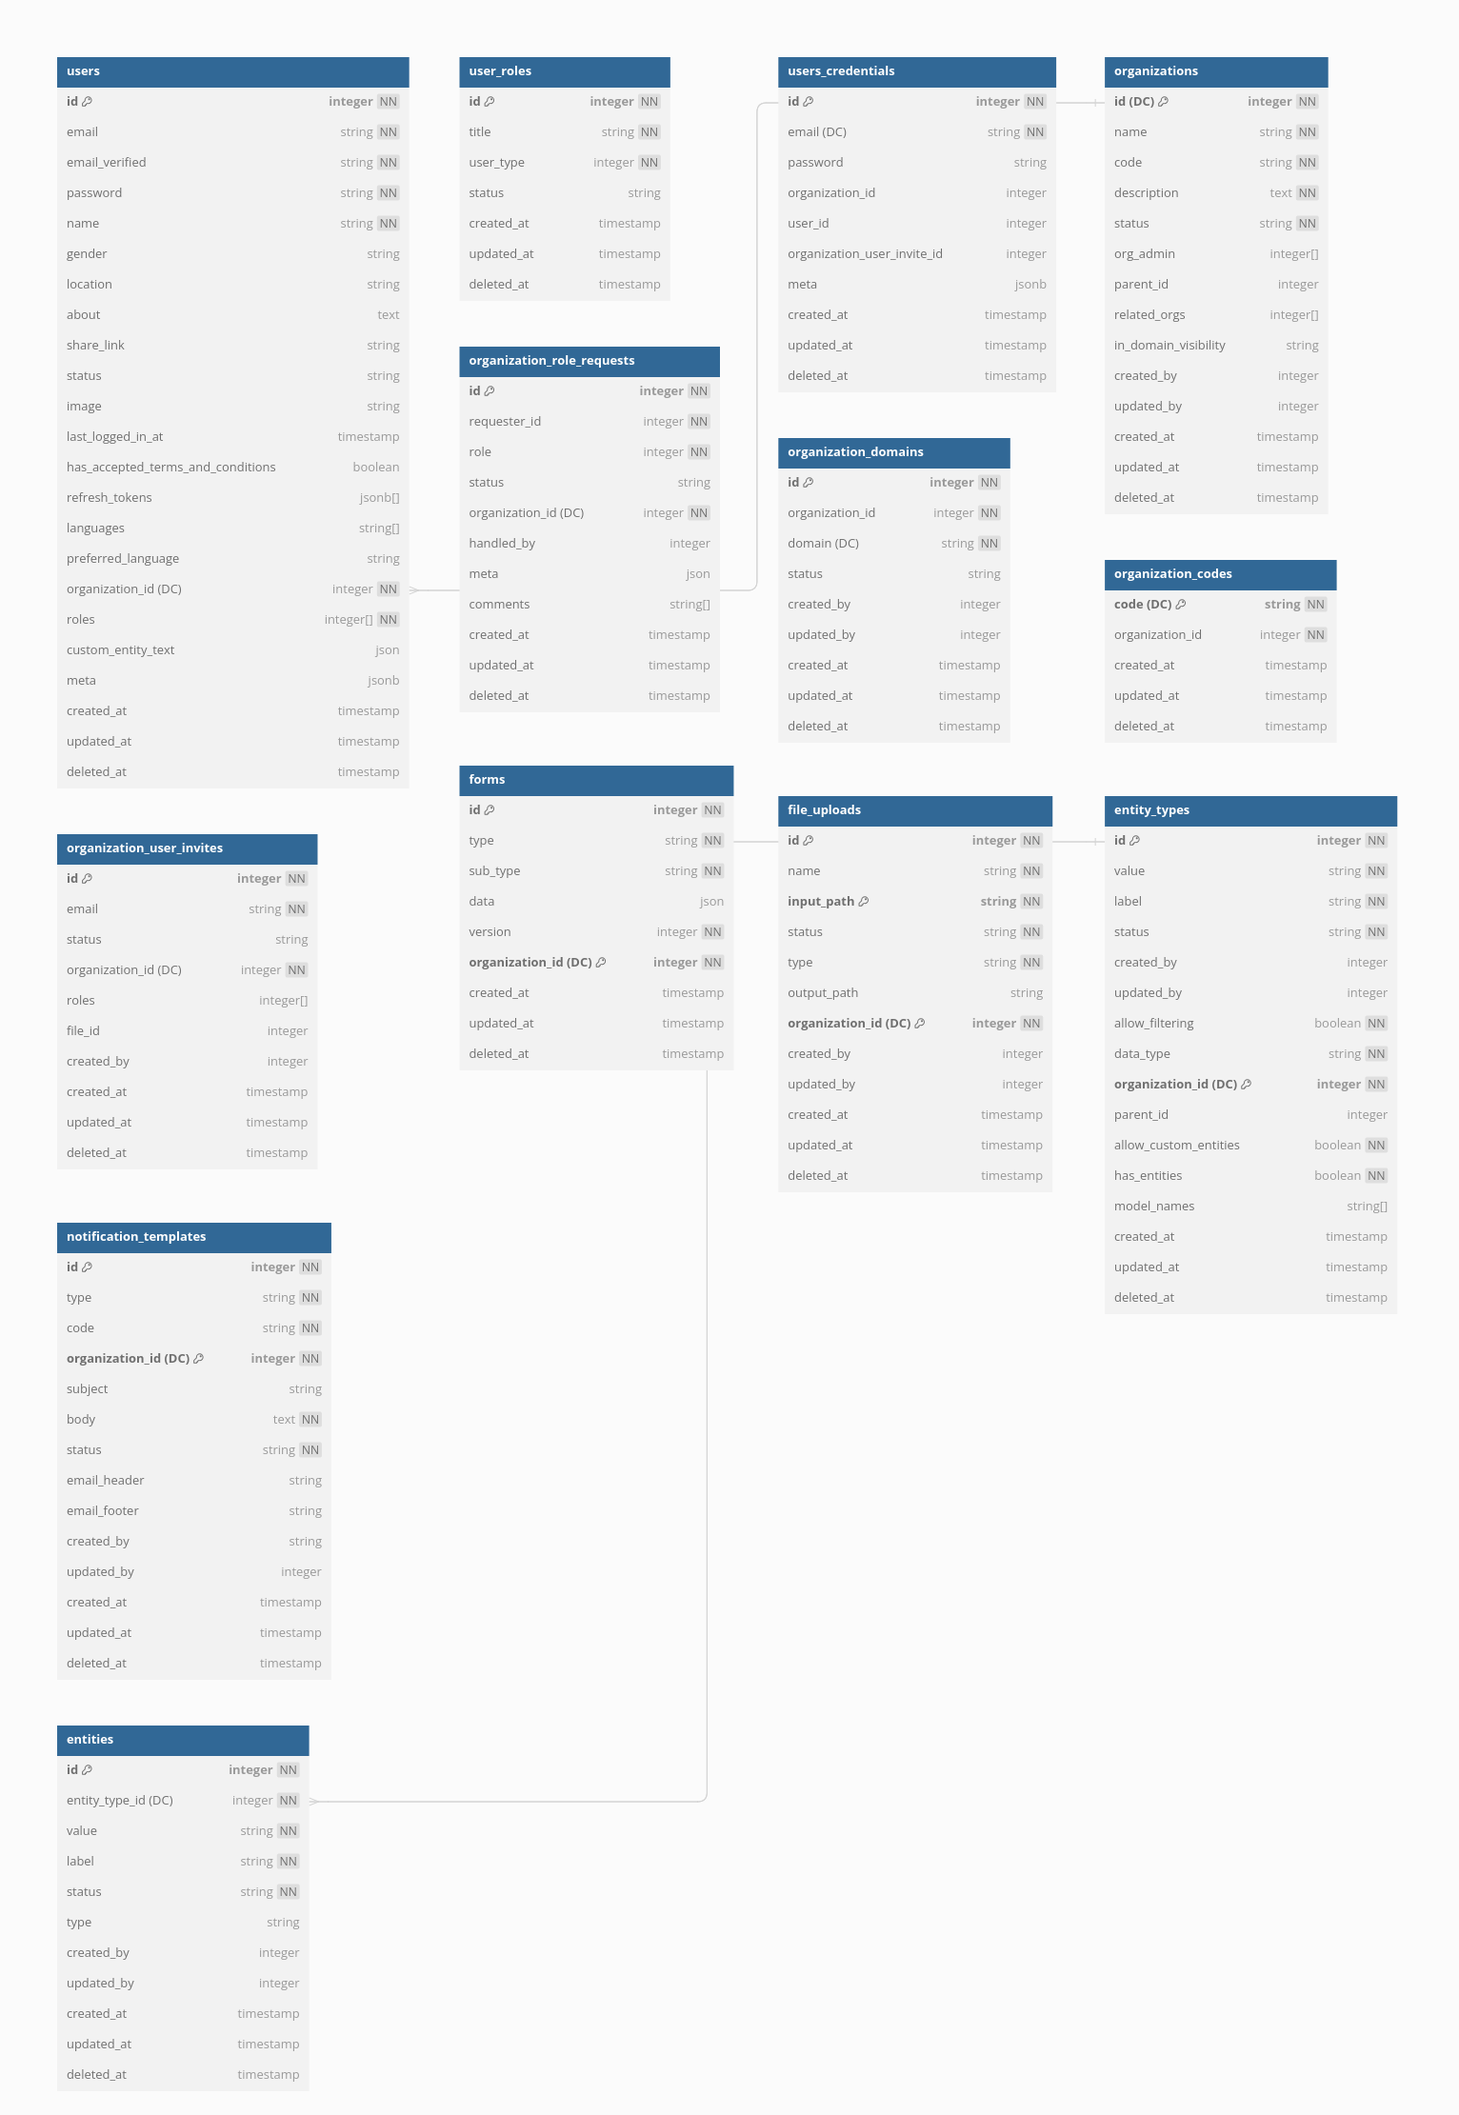
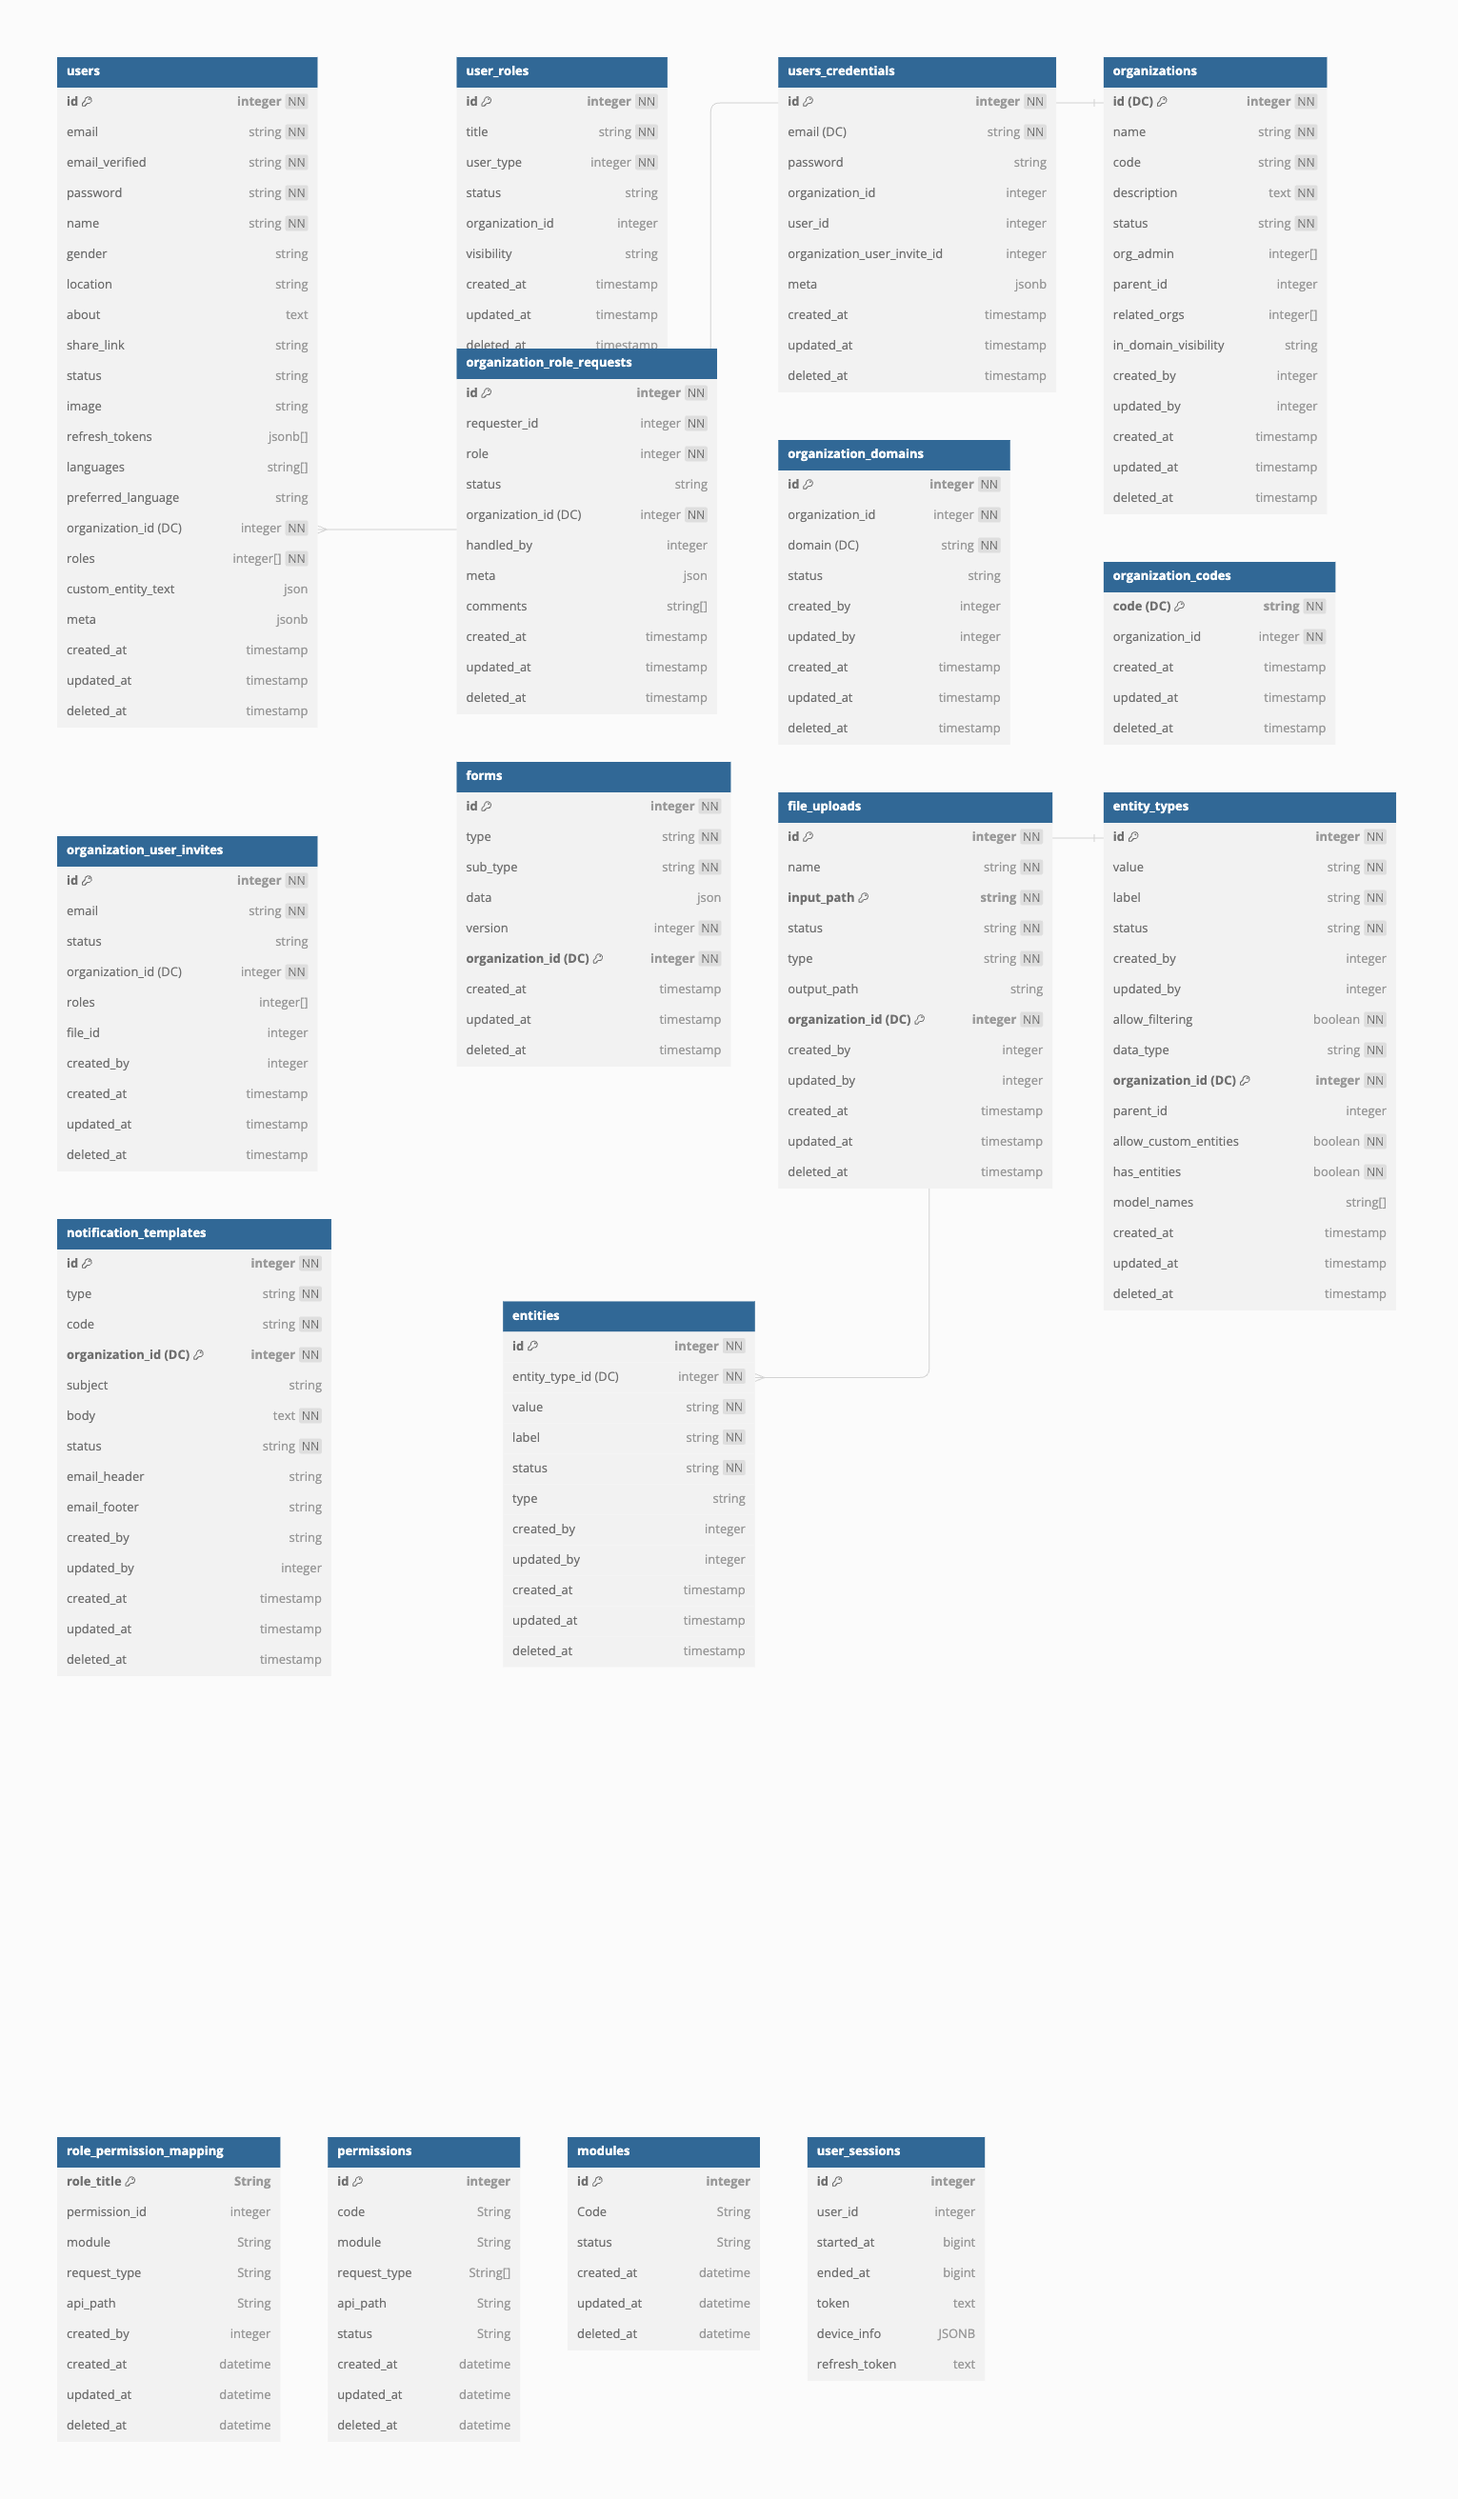
Updated the DB design for user and mentor service
- Created a 2.5 (archive) version folder for user service.
- Editorial changes

diff --git a/src/docusaurus/sidebars.js b/src/docusaurus/sidebars.js
@@ -120,12 +120,12 @@ const sidebars = {
             {
               type: 'doc',
               id: 'manageassignedsession', // document ID
-              label: 'Managing Sessions That Are Assigned to Mentors', // sidebar label
+              label: 'Managing Sessions Assigned to Mentors', // sidebar label
             },
             {
               type: 'doc',
               id: 'joinassignedsession', // document ID
-              label: 'Joining Sessions That Are Assigned to Mentors', // sidebar label
+              label: 'Joining Sessions Assigned to Mentors', // sidebar label
             }
           ]
         },

diff --git a/src/docusaurus/docusaurus.config.js b/src/docusaurus/docusaurus.config.js
@@ -117,6 +117,9 @@ const config = {
         lastVersion: 'current',
         versions: {
           current: {
+            label: '2.6',
+          },
+          '2.5': {
             label: '2.5',
           },
           '2.4': {

diff --git a/src/docusaurus/userservice_versioned_docs/version-2.5/settingup-userservice.md b/src/docusaurus/userservice_versioned_docs/version-2.5/settingup-userservice.md
@@ -1,0 +1,22 @@
+import PartialExample from './_mentored.mdx';
+import Admonition from '@theme/Admonition';
+
+# Setting up the User Service
+
+System administrators can set up the user service to include the following user management capabilities to the application:
+
+* Create and manage users and roles.
+* Configure a capability to upload a list of users to the application.
+* Configure notification templates for user workflows.
+
+See <a href="https://github.com/ELEVATE-Project/user/blob/master/README.md">Setting up User Service</a> to learn more.
+
+## Additional Resources
+
+|To learn more| See the following links|
+|--------------|-----------|
+|API Documentation|https://dev.elevate-apis.shikshalokam.org/user/api-doc|
+|<PartialExample mentored /> Service|https://github.com/ELEVATE-Project/mentoring.git|
+|Interface Service|https://github.com/ELEVATE-Project/interface-service|
+|Supporting Service: Scheduler Service|https://github.com/ELEVATE-Project/scheduler.git|
+|Supporting Service: Notification Service|https://github.com/ELEVATE-Project/notification.git|

diff --git a/src/docusaurus/userservice_versioned_docs/version-2.5/database-userservice.md b/src/docusaurus/userservice_versioned_docs/version-2.5/database-userservice.md
@@ -1,0 +1,3 @@
+# Database Design
+
+![](media/db-user.png)
